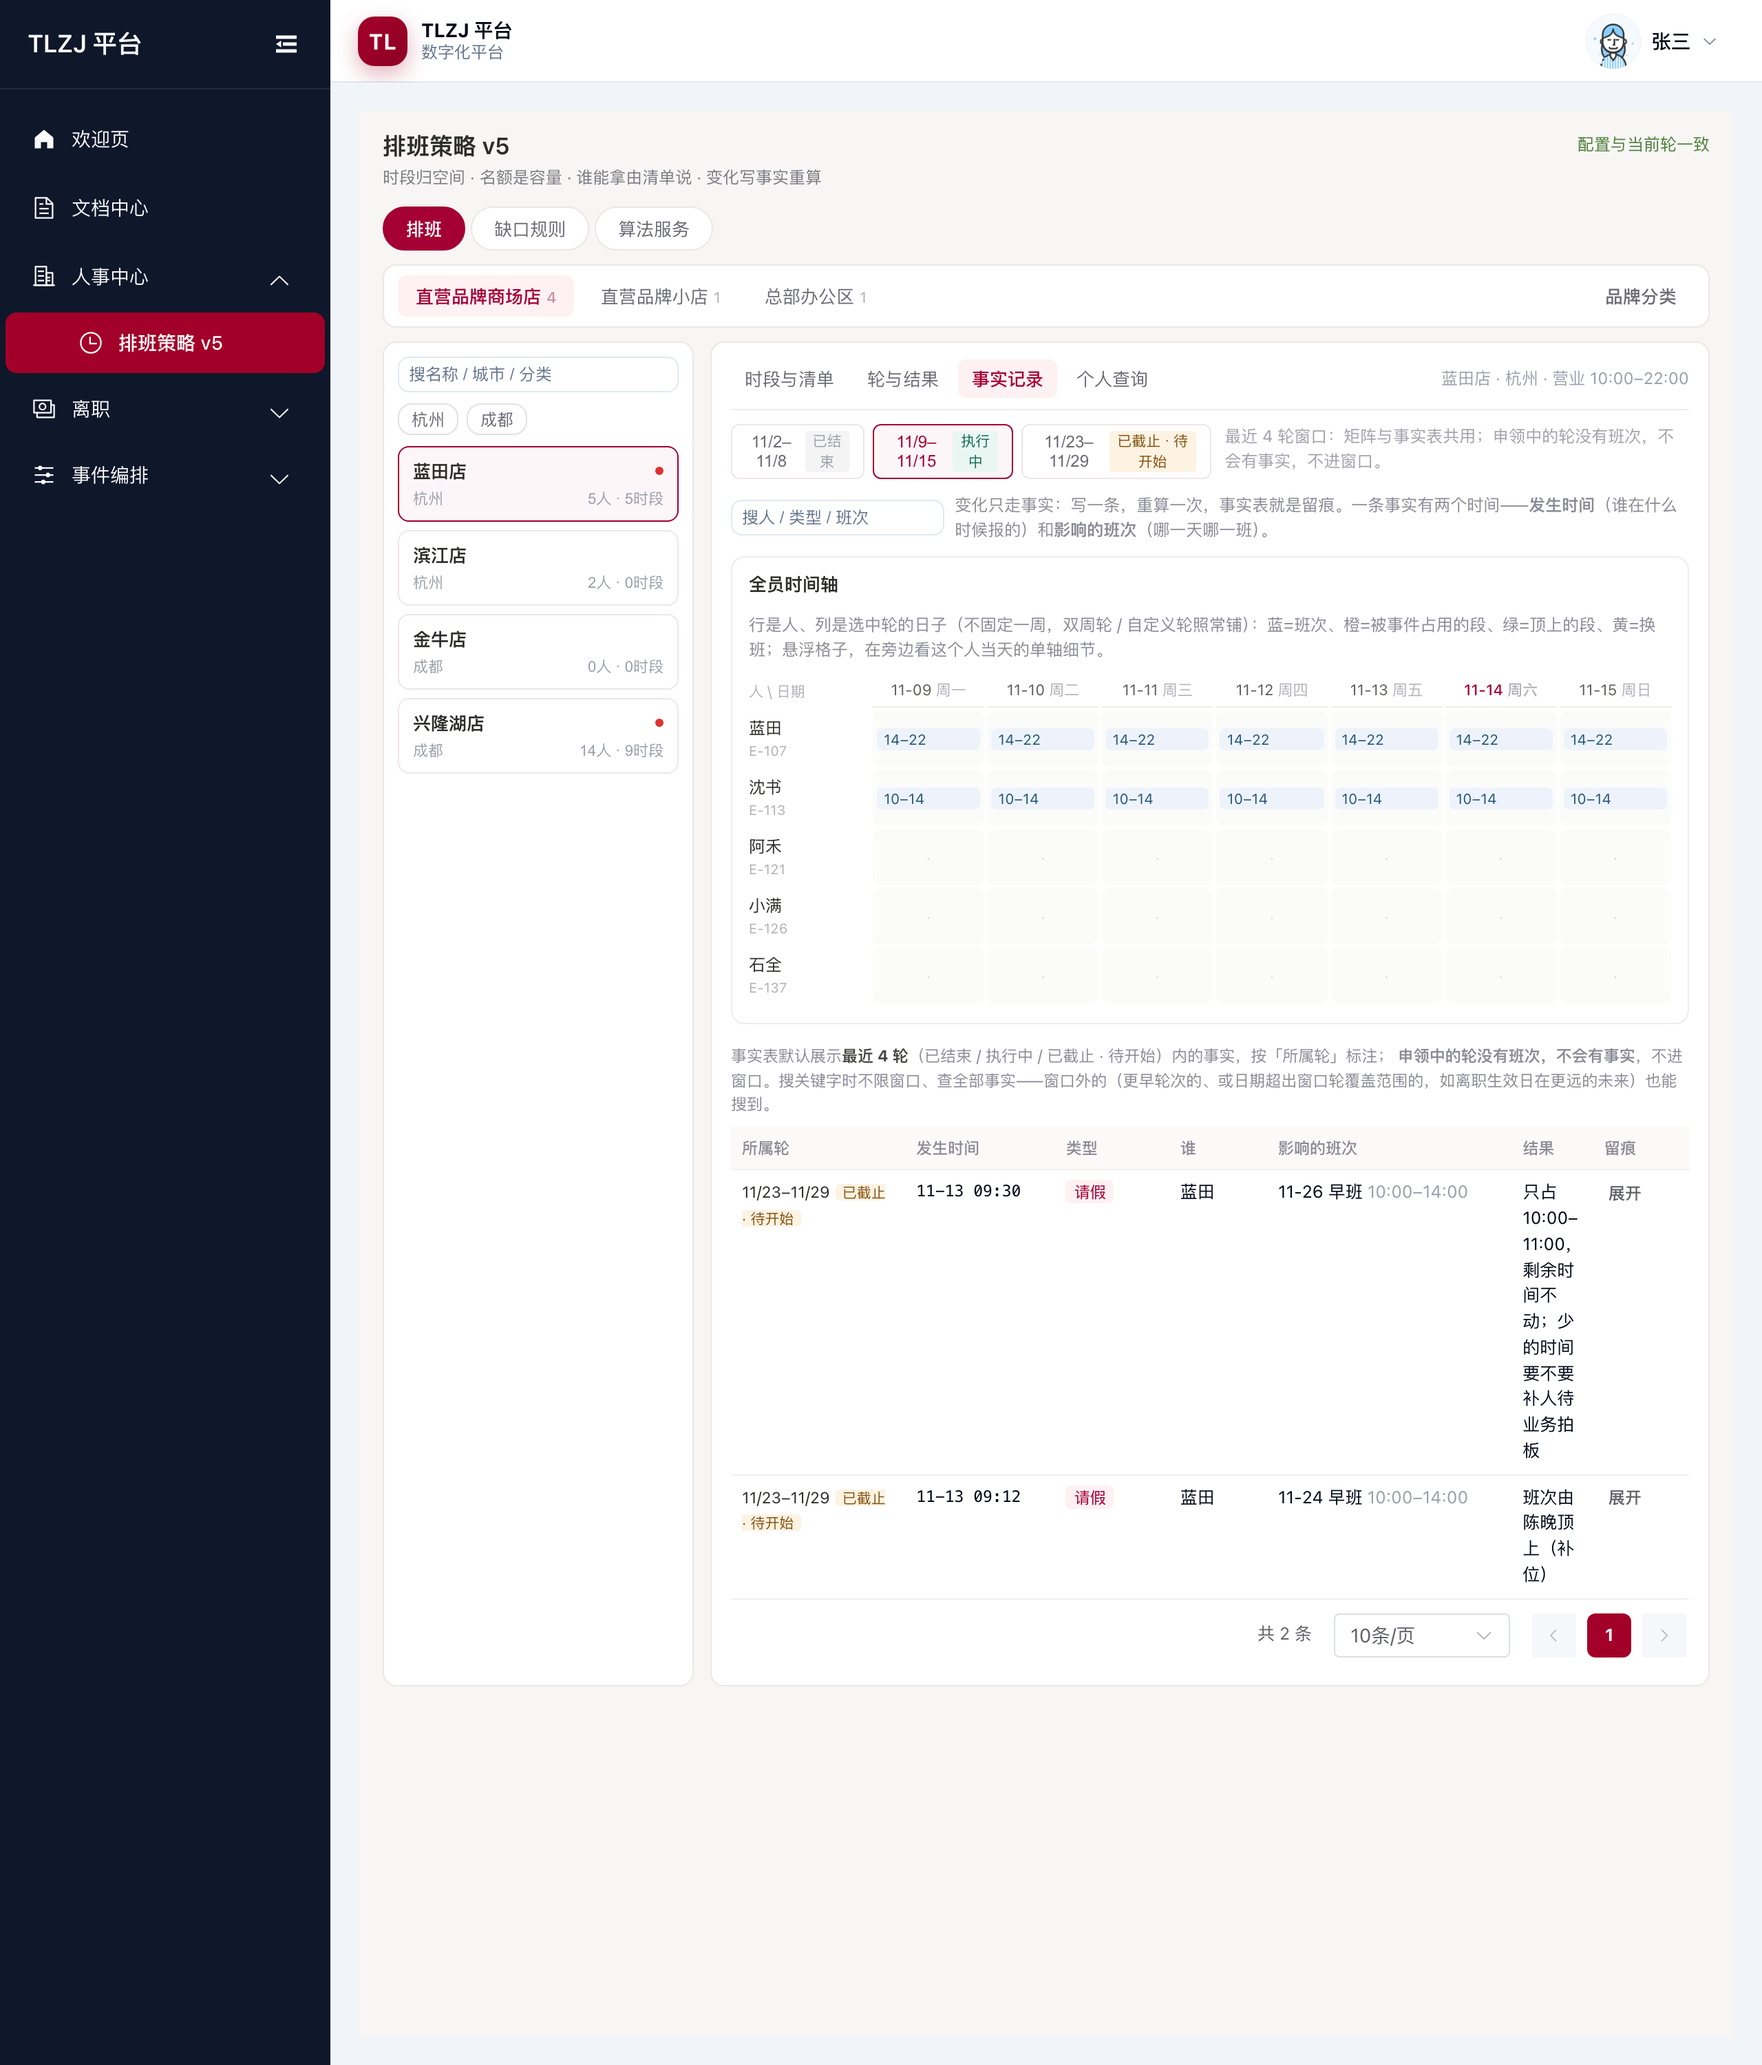
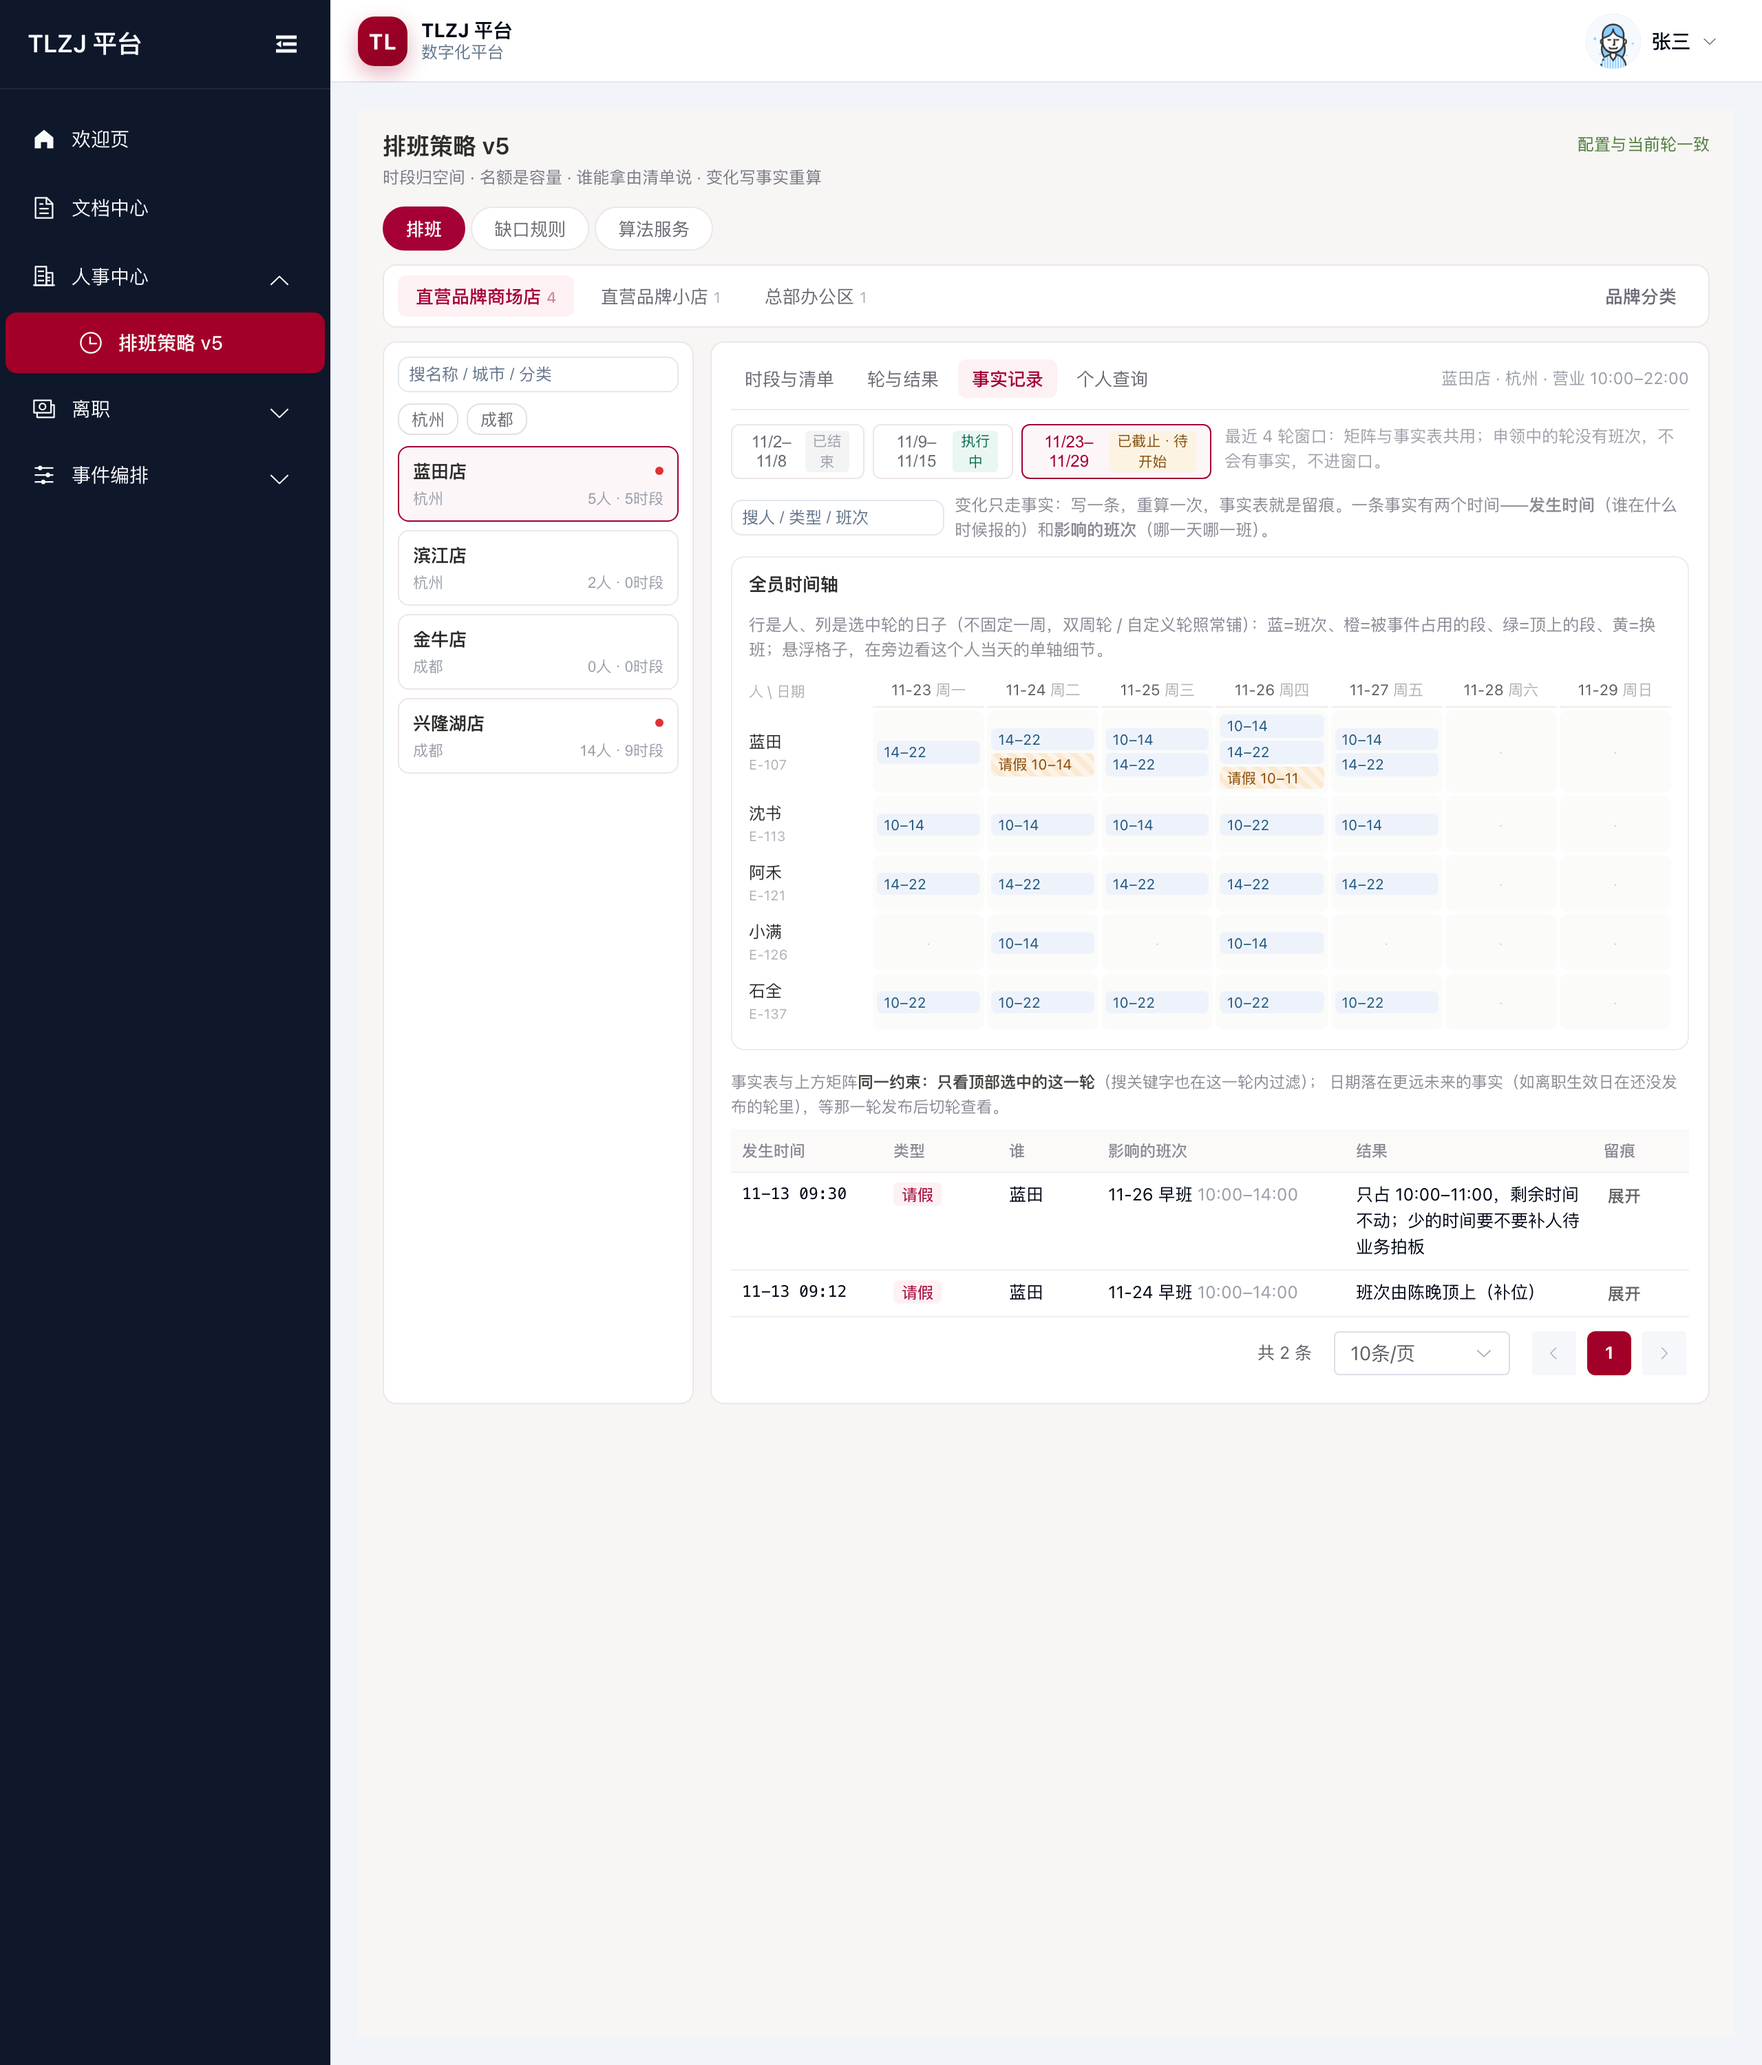
事实表收紧为跟随选中轮：与全员时间轴共用同一个选中轮（搜关键字也在这一轮内过滤），删除「所属轮」列与 factRoundOf（同一页签一套口径，不再从选中轮突兀跳到全部轮次）；默认选中轮改为最新事实所在的那一轮（无事实回退执行中）+ 空态行「这一轮还没有事实——切顶部其他轮查看」；文档 6.4 note/功能入口/截图标注/枢纽页/变更日志 v3.21 同步；v5-facts.png 重截

diff --git a/src/views/ScheduleV5.vue b/src/views/ScheduleV5.vue
@@ -818,23 +818,17 @@
           </div>
 
           <p class="fact-window-hint">
-            事实表默认展示<strong>最近 4 轮</strong>（已结束 / 执行中 / 已截止 · 待开始）内的事实，按「所属轮」标注；
-            <b>申领中的轮没有班次，不会有事实</b>，不进窗口。搜关键字时不限窗口、查全部事实——窗口外的（更早轮次的、或日期超出窗口轮覆盖范围的，如离职生效日在更远的未来）也能搜到。
+            事实表与上方矩阵<strong>同一约束：只看顶部选中的这一轮</strong>（搜关键字也在这一轮内过滤）；
+            日期落在更远未来的事实（如离职生效日在还没发布的轮里），等那一轮发布后切轮查看。
           </p>
           <table class="data-table">
             <thead>
-              <tr><th style="width: 128px;">所属轮</th><th style="width: 110px;">发生时间</th><th style="width: 84px;">类型</th><th style="width: 72px;">谁</th><th style="width: 180px;">影响的班次</th><th>结果</th><th style="width: 70px;">留痕</th></tr>
+              <tr><th style="width: 110px;">发生时间</th><th style="width: 84px;">类型</th><th style="width: 72px;">谁</th><th style="width: 180px;">影响的班次</th><th>结果</th><th style="width: 70px;">留痕</th></tr>
             </thead>
             <tbody>
+              <tr v-if="!factRows.length"><td colspan="6" class="empty-cell">这一轮还没有事实——切顶部其他轮查看</td></tr>
               <template v-for="f in factRows" :key="f.id">
                 <tr :class="{ hl: hlFact === f.id }">
-                  <td>
-                    <template v-if="factRoundOf(f)">
-                      <span class="fr-span">{{ short(factRoundOf(f).span[0]) }}–{{ short(factRoundOf(f).span[1]) }}</span>
-                      <em :class="['rb-badge', factRoundOf(f).status]">{{ roundStatusLabel(factRoundOf(f).status) }}</em>
-                    </template>
-                    <span v-else class="muted">窗口外</span>
-                  </td>
                   <td class="mono">{{ f.at.slice(5) }}</td>
                   <td><span class="ftype">{{ f.type }}</span></td>
                   <td>{{ f.person }}</td>
@@ -846,7 +840,7 @@
                   <td><el-button link size="small" @click="openFact = openFact === f.id ? '' : f.id">展开</el-button></td>
                 </tr>
                 <tr v-if="openFact === f.id" class="trace-row">
-                  <td colspan="7">
+                  <td colspan="6">
                     <div class="trace">
                       <span class="tr-title">这一条事实带动的班次：</span>
                       <span v-for="pid in f.placements" :key="pid" class="tr-item">
@@ -1695,19 +1689,21 @@ const factRoundSel = computed(() => {
     const hit = factWindow.value.find(r => r.id === factRoundId.value)
     if (hit) return hit
   }
-  return factWindow.value.find(r => r.status === 'running') || factWindow.value[factWindow.value.length - 1] || round.value
+  /* 默认落在最新事实所在的那一轮（事实页回答「最近发生了什么变化」），没有事实的轮回退执行中 */
+  const latest = facts.value.reduce((m, f) => (f.date && (!m || f.date > m)) ? f.date : m, '')
+  const hit = factWindow.value.find(r => latest >= r.span[0] && latest <= r.span[1])
+  return hit || factWindow.value.find(r => r.status === 'running') || factWindow.value[factWindow.value.length - 1] || round.value
 })
 watch(selSpace, () => { factRoundId.value = '' })
-/* 事实归属轮：按影响日期落在哪轮 span 里推导（不存轮次字段，周期改长度后归属跟着新 span 走，见第 8 章 8.7） */
-function factRoundOf(f) {
-  if (!f.date) return null
-  return roundList(selSpace.value).find(r => f.date >= r.span[0] && f.date <= r.span[1]) || null
-}
+/* 事实表与全员时间轴同一约束：只看顶部选中的这一轮（搜关键字也在这一轮内过滤）——
+   一个页签一套口径，不从「选中轮」突兀跳到「全部轮次」 */
 const factFiltered = computed(() => {
+  const sel = factRoundSel.value
+  const base = facts.value.filter(f => f.date && f.date >= sel.span[0] && f.date <= sel.span[1])
   const kw = factKw.value.trim().toLowerCase()
-  if (kw) return facts.value.filter(f => [f.type, f.person, f.date, f.slotName, f.slotTime]
+  if (!kw) return base
+  return base.filter(f => [f.type, f.person, f.date, f.slotName, f.slotTime]
     .some(x => (x || '').toLowerCase().includes(kw)))
-  return facts.value.filter(f => factWindow.value.some(r => f.date && f.date >= r.span[0] && f.date <= r.span[1]))
 })
 const { page: factPage, pageSize: factPageSize, total: factTotal, rows: factRows } = usePager(factFiltered)
 
@@ -2539,7 +2535,6 @@ tr.covered td { color: #9a9fa9; }
 /* 待人事处理：求值没人顶时发给人事的待办 */
 .fact-window-hint { font-size: 11.5px; color: #8a8a95; line-height: 1.5; margin: 2px 0 8px; }
 .fact-window-hint strong { color: #444441; }
-.fr-span { font-size: 11.5px; color: #2c2c2a; margin-right: 4px; }
 .hr-todo { background: #faeeda; border: 1px solid #ecd9b0; border-radius: 10px; padding: 10px 14px; margin-bottom: 14px; display: flex; flex-direction: column; gap: 8px; }
 .hr-todo > strong { font-size: 12.5px; color: #854F0B; }
 .hrt-row { display: flex; align-items: center; gap: 10px; font-size: 12.5px; color: #6a6a75; }

diff --git a/src/views/hr-schedule/sections/HS64Facts.vue b/src/views/hr-schedule/sections/HS64Facts.vue
@@ -18,13 +18,13 @@
       </p>
       <div class="func-entry">
         <strong>功能入口：</strong>排班策略 v5（原型 <code>/schedule-v5</code>）→ <strong>事实记录</strong>
-        （全员时间轴矩阵 / 事实表：默认展示最近 4 轮窗口，支持搜索与分页）
+        （全员时间轴矩阵 / 事实表：共用选中轮（最近 4 轮窗口），支持搜索与分页）
       </div>
 
       <DocScreens
         :height="420"
         :images="[
-          { src: factsShot, label: '事实记录：最近 4 轮窗口 tab（页首统一约束）+ 全员时间轴矩阵（蓝=班次·橙斜纹=被占用·绿=顶班）+ 事实表（所属轮标注 · 搜索 + 分页）' }
+          { src: factsShot, label: '事实记录：最近 4 轮窗口 tab（页首统一约束）+ 全员时间轴矩阵（蓝=班次·橙斜纹=被占用·绿=顶班）+ 事实表（跟随选中轮 · 搜索 + 分页）' }
         ]"
       />
     </div>
@@ -44,11 +44,10 @@
         </tbody>
       </table>
       <div class="note">
-        <strong>轮次窗口（事实记录页的统一约束，在页签最顶部）：</strong>事实记录默认展示<strong>最近 4 轮</strong>——已结束 / 执行中 / 已截止 · 待开始；
-        全员时间轴在窗口内切轮（结果页回答「这一轮怎么排的」，事实页回答「最近发生了什么变化」）。
-        <strong>申领中的轮不进窗口</strong>：还没翻轮、没有班次和占位，事实无处可挂。
-        事实表每行标注<strong>所属轮</strong>——按「影响的班次日期落在哪轮 span」推导，不存轮次字段（周期改长度后归属跟着新 span 走，见 <router-link to="/docs/hr-schedule/future">8.7</router-link>）；
-        搜关键字时不限窗口、查全部事实——窗口外的（更早轮次的、或日期超出窗口轮覆盖范围的，如离职生效日在更远的未来）也能搜到。
+        <strong>轮次窗口（事实记录页的统一约束，在页签最顶部）：</strong>事实记录展示<strong>最近 4 轮</strong>——已结束 / 执行中 / 已截止 · 待开始；
+        <strong>全员时间轴矩阵与事实表共用同一个选中轮</strong>：矩阵铺这轮的日子、事实表列这轮的事实，搜关键字也在这一轮内过滤（结果页回答「这一轮怎么排的」，事实页回答「这一轮发生了什么变化」）。
+        <strong>申领中的轮不进窗口</strong>：还没翻轮、没有班次和占位，事实无处可挂；
+        日期落在更远未来的事实（如离职生效日在还没发布的轮里），等那一轮发布后切轮查看。
       </div>
     </div>
 

diff --git a/src/views/hr-schedule/HrScheduleFeatures.vue b/src/views/hr-schedule/HrScheduleFeatures.vue
@@ -38,7 +38,7 @@
           <tr><td><strong>6.1 时段与清单</strong></td><td>排班策略 v5 → 时段与清单（<code>/schedule-v5</code>）</td><td>班次时间与名额 + 清单逐档配「谁 / 方式 / 窗口 / 上限」</td></tr>
           <tr><td><strong>6.2 轮与获取</strong></td><td>排班策略 v5 → 轮与结果；页头排班节奏</td><td>轮的三个时刻、三种获取方式、余额三条去向</td></tr>
           <tr><td><strong>6.3 排班结果</strong></td><td>排班策略 v5 → 轮与结果 / 个人查询</td><td>唯一记录口 + 占用矩阵 + 申领登记；个人查询按天看一个人这一轮的班与无法履约明细</td></tr>
-          <tr><td><strong>6.4 变化与求值</strong></td><td>排班策略 v5 → 事实记录</td><td>五类事实、全员时间轴矩阵、事实表（最近 4 轮窗口 · 搜索 + 分页）</td></tr>
+          <tr><td><strong>6.4 变化与求值</strong></td><td>排班策略 v5 → 事实记录</td><td>五类事实、全员时间轴矩阵、事实表（与矩阵同轮 · 搜索 + 分页）</td></tr>
           <tr><td><strong>6.5 移动端</strong></td><td>移动端菜单 → 人事组「我的排班」（<code>/v5/m</code>）</td><td>我的排班 + 可获取两页签，右上角切演示视角</td></tr>
           <tr><td><strong>6.6 通知</strong></td><td>本章 6.6（<code>/docs/hr-schedule/6-6</code>）</td><td>发给员工的补位 / 安排 / 换班，发给人事经理的缺口</td></tr>
           <tr><td><strong>6.7 打卡</strong></td><td>本章 6.7（<code>/docs/hr-schedule/6-7</code>）</td><td>人事中心通用打卡能力，首个落地非全客户经理</td></tr>

diff --git a/src/views/hr-schedule/sections/HS02Changelog.vue b/src/views/hr-schedule/sections/HS02Changelog.vue
@@ -230,10 +230,10 @@
             <td><strong>v3.21</strong></td>
             <td>2026-11-26</td>
             <td>
-              <strong>6.4.1 补事实记录的轮次窗口口径：</strong>事实记录页默认展示<strong>最近 4 轮</strong>（已结束 / 执行中 / 已截止 · 待开始），
-              全员时间轴矩阵在窗口内切轮、事实表按「所属轮」标注——归属按影响班次日期推导、不存轮次字段（与 8.7 周期变更口径自洽）；
-              <strong>申领中的轮不进窗口</strong>（没翻轮没班次，事实无处可挂）；搜关键字不限窗口查全部事实，窗口外的（更早的、或日期超出窗口轮覆盖范围的）也能搜到。
-              原型事实记录页同步（轮次 tab / 所属轮列 / 搜索去掉「结果」字段）；6.4 升 v5.5。
+              <strong>6.4.1 补事实记录的轮次窗口口径：</strong>事实记录页展示<strong>最近 4 轮</strong>（已结束 / 执行中 / 已截止 · 待开始），
+              <strong>全员时间轴矩阵与事实表共用同一个选中轮</strong>——矩阵铺这轮的日子、事实表列这轮的事实，搜关键字也在这一轮内过滤（一个页签一套口径）；
+              <strong>申领中的轮不进窗口</strong>（没翻轮没班次，事实无处可挂）；日期落在更远未来的事实（如离职生效日在还没发布的轮里）等那一轮发布后切轮查看。
+              原型事实记录页同步（轮次 tab 置顶 / 搜索跟随选中轮 / 去掉「结果」字段）；6.4 升 v5.5。
             </td>
           </tr>
           <tr>
